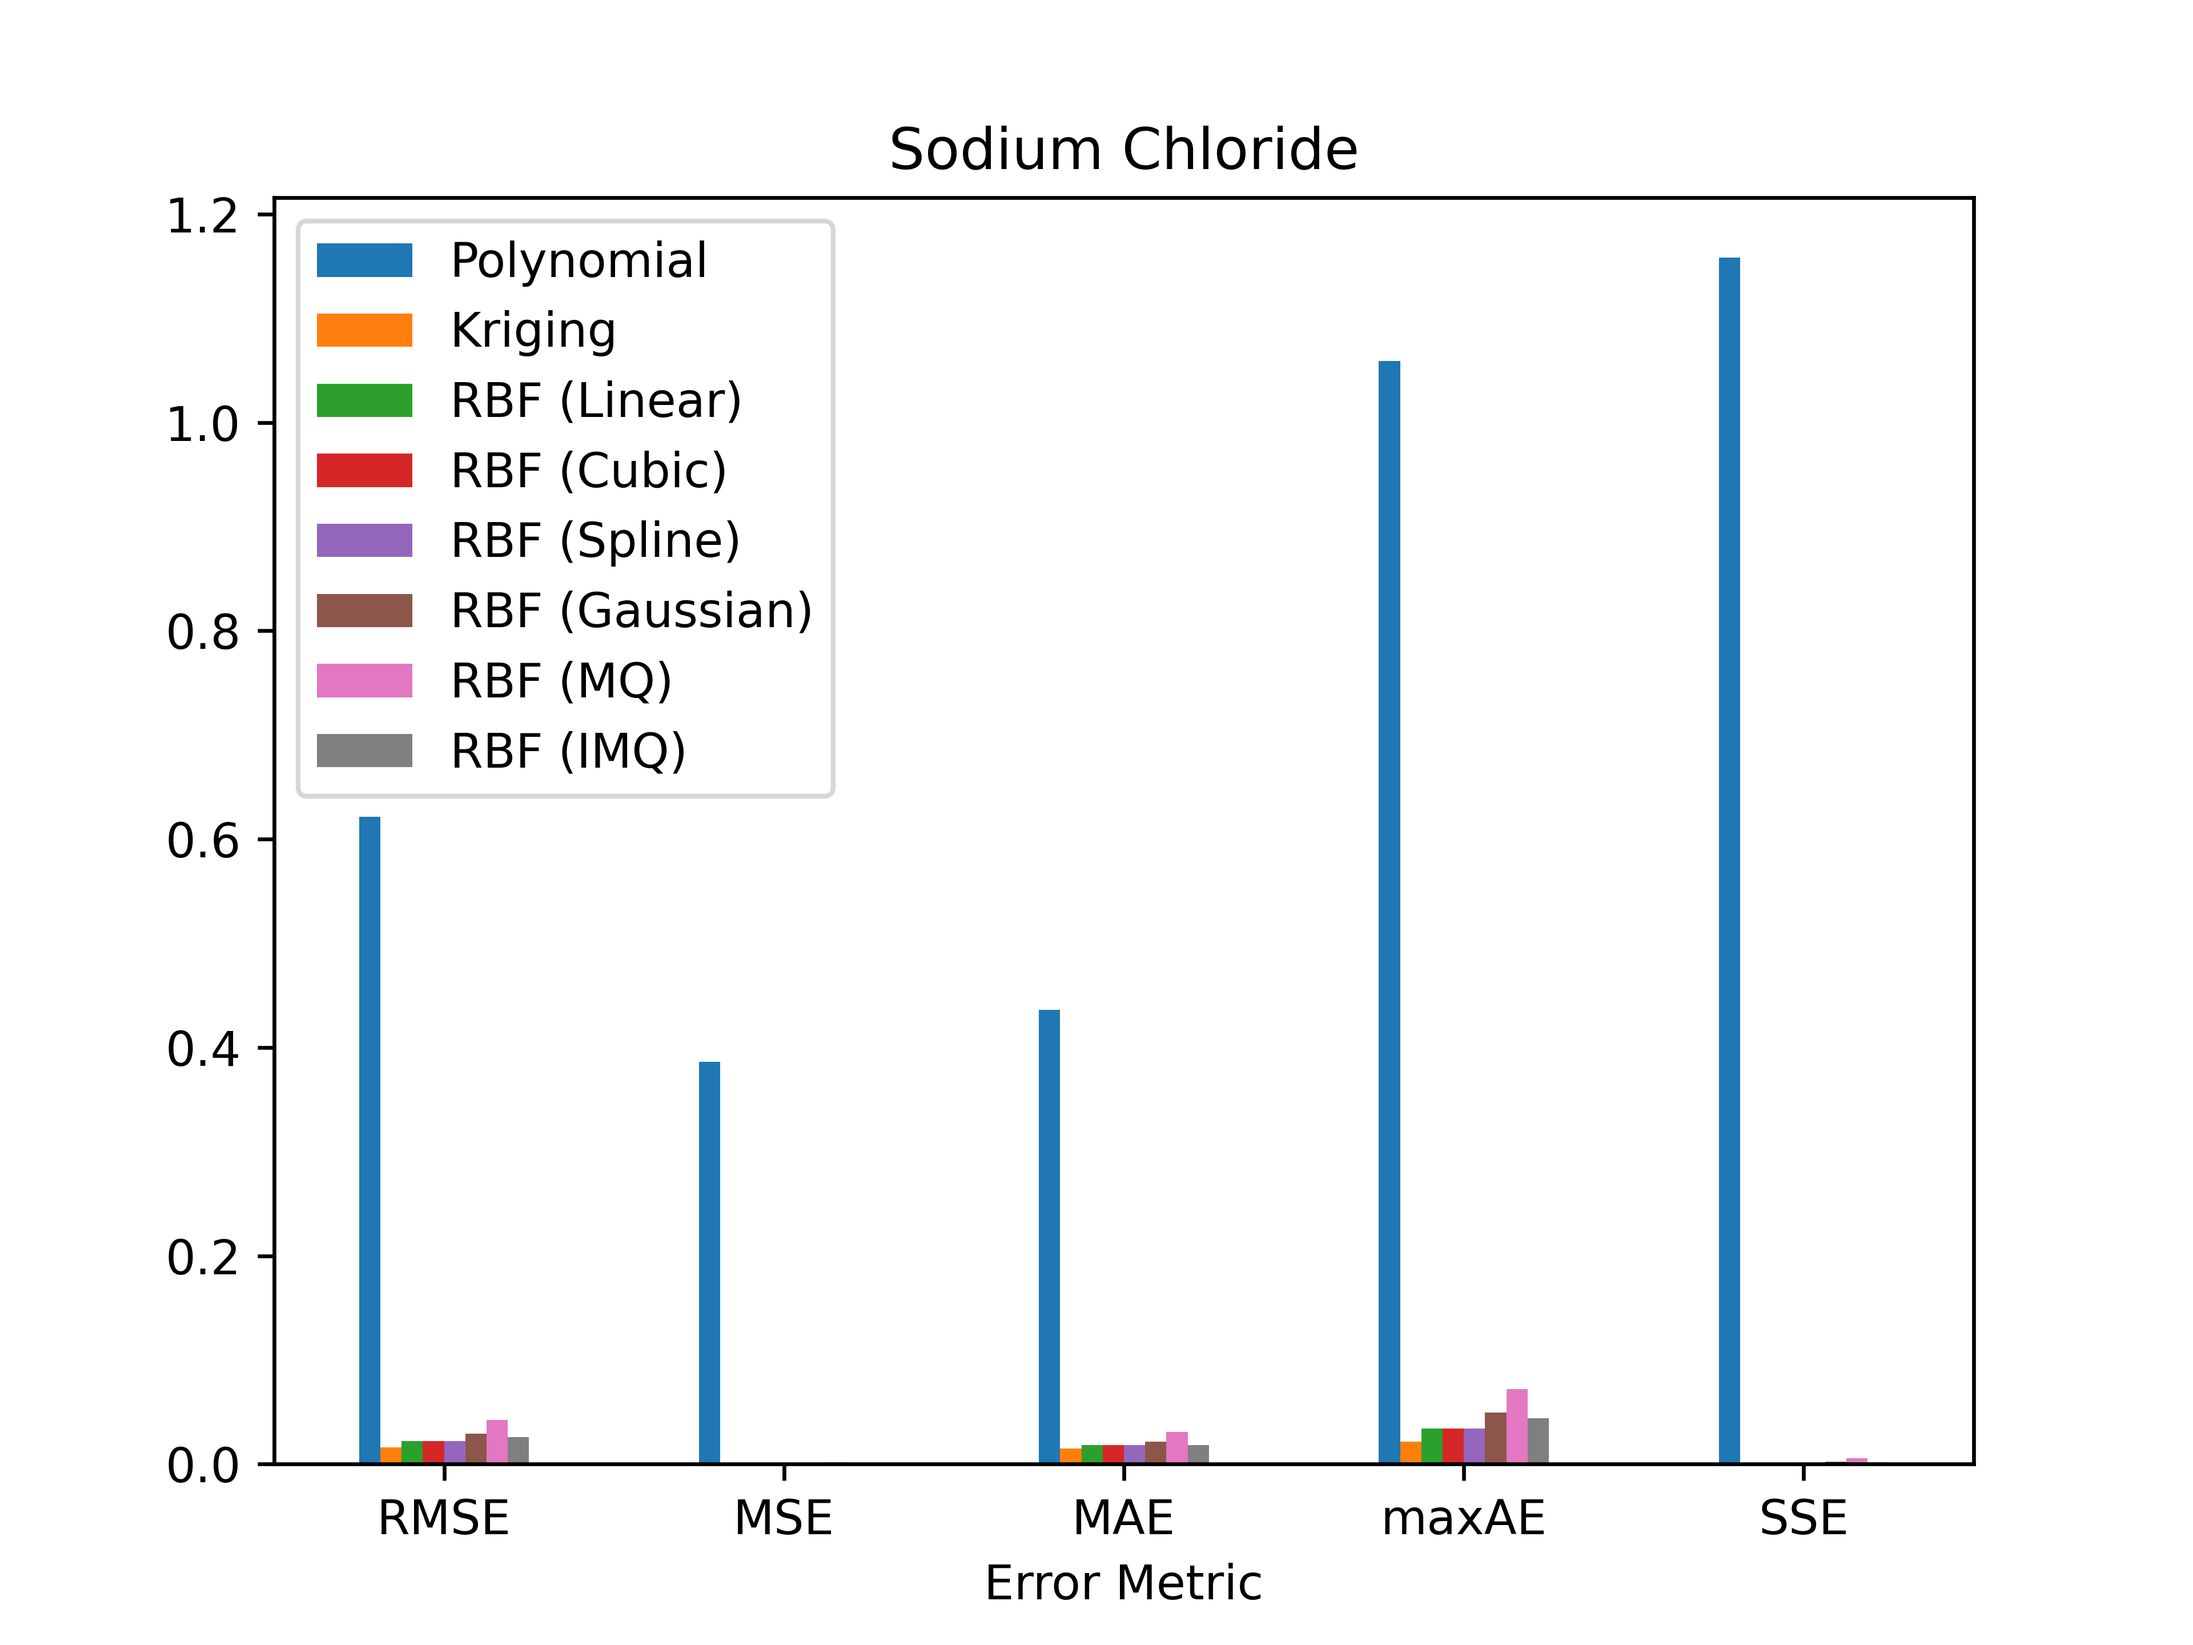
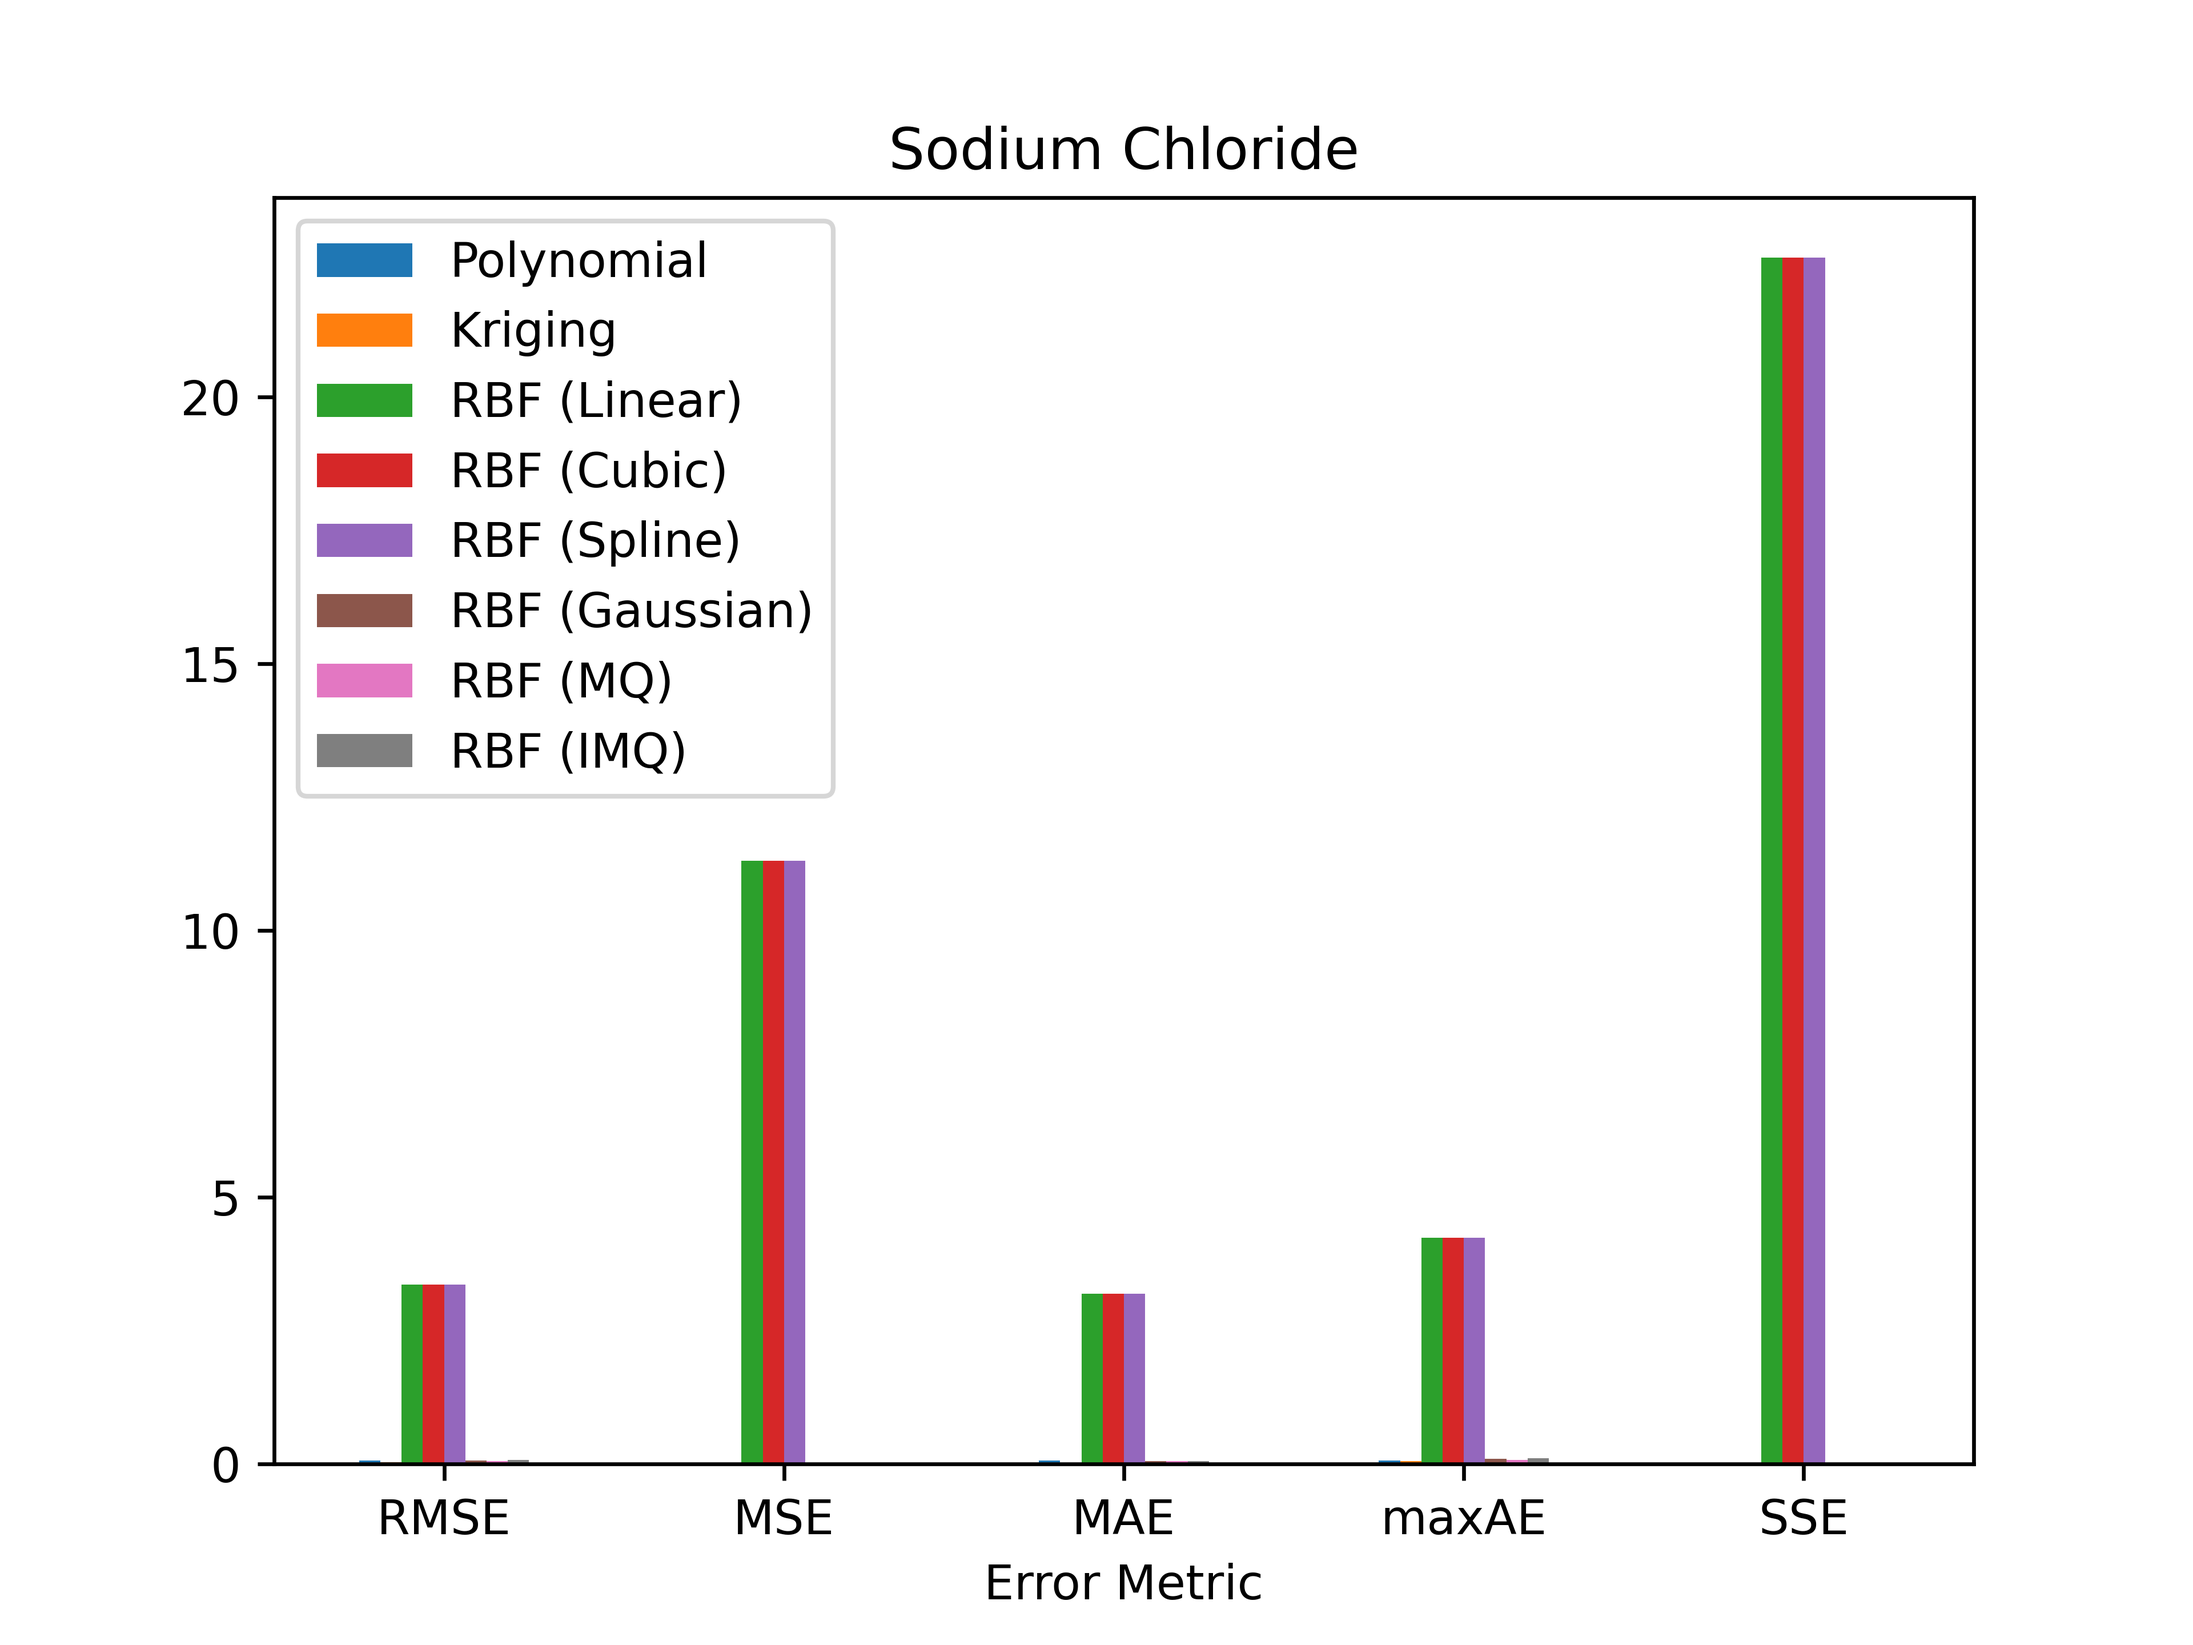
updated stage surrogate models

diff --git a/src/prommis/nanofiltration/surrogate_model_analysis/train_surrogate_model.py b/src/prommis/nanofiltration/surrogate_model_analysis/train_surrogate_model.py
@@ -35,17 +35,17 @@ def main():
     #     solute="La", salt="Lanthanum Chloride", length_scale="tube"
     # )
 
-    generate_mixed_salt_analysis(length_scale="tube")
+    # generate_mixed_salt_analysis(length_scale="tube")
 
-    # generate_per_salt_analysis(
-    #     solute="Na", salt="Sodium Chloride", length_scale="stage"
-    # )
-    # generate_per_salt_analysis(
-    #     solute="Ca", salt="Calcium Chloride", length_scale="stage"
-    # )
-    # generate_per_salt_analysis(
-    #     solute="La", salt="Lanthanum Chloride", length_scale="stage"
-    # )
+    generate_per_salt_analysis(
+        solute="Na", salt="Sodium Chloride", length_scale="stage"
+    )
+    generate_per_salt_analysis(
+        solute="Ca", salt="Calcium Chloride", length_scale="stage"
+    )
+    generate_per_salt_analysis(
+        solute="La", salt="Lanthanum Chloride", length_scale="stage"
+    )
 
 
 def generate_per_salt_analysis(solute, salt, length_scale):
@@ -54,6 +54,7 @@ def generate_per_salt_analysis(solute, salt, length_scale):
     polymonial_surrogate, polynomial_testing_error_metrics = (
         train_polynomial_surrogate_model(
             datafile=datafile,
+            length_scale=length_scale,
             visualize=False,
         )
     )
@@ -64,6 +65,7 @@ def generate_per_salt_analysis(solute, salt, length_scale):
 
     kriging_surrogate, kriging_testing_error_metrics = train_kriging_surrogate_model(
         datafile=datafile,
+        length_scale=length_scale,
         visualize=False,
     )
     kriging_surrogate.save_to_file(
@@ -75,6 +77,7 @@ def generate_per_salt_analysis(solute, salt, length_scale):
     for basis_func in basis_functions:
         rbf_surrogate, rbf_testing_error_metrics = train_rbf_surrogate_model(
             datafile=datafile,
+            length_scale=length_scale,
             basis_func=basis_func,
             visualize=False,
         )
@@ -120,6 +123,7 @@ def generate_mixed_salt_analysis(length_scale):
     polymonial_surrogate, polynomial_testing_error_metrics = (
         train_polynomial_surrogate_model(
             datafile=datafile,
+            length_scale=length_scale,
             visualize=False,
         )
     )
@@ -130,6 +134,7 @@ def generate_mixed_salt_analysis(length_scale):
 
     kriging_surrogate, kriging_testing_error_metrics = train_kriging_surrogate_model(
         datafile=datafile,
+        length_scale=length_scale,
         visualize=False,
     )
     kriging_surrogate.save_to_file(
@@ -141,6 +146,7 @@ def generate_mixed_salt_analysis(length_scale):
     for basis_func in basis_functions:
         rbf_surrogate, rbf_testing_error_metrics = train_rbf_surrogate_model(
             datafile=datafile,
+            length_scale=length_scale,
             basis_func=basis_func,
             visualize=False,
         )
@@ -179,15 +185,33 @@ def generate_mixed_salt_analysis(length_scale):
     plt.show()
 
 
-def train_polynomial_surrogate_model(datafile, max_order=4, visualize=False):
+def train_polynomial_surrogate_model(datafile, length_scale, max_order=4, visualize=False):
     # load data from full expressions
     data = read_csv(datafile)
 
+    print(str(datafile))
+
     # define input and output labels
-    input_labels = ["feed_conc", "pressure", "feed_flow"]
-    output_labels = ["ion_flux"]
-    xmin = [25, 5, 10]
-    xmax = [200, 15, 17]
+    if length_scale == "tube":
+        input_labels = ["feed_conc", "pressure", "feed_flow"]
+        output_labels = ["ion_flux"]
+        xmin = [25, 5, 10]
+        xmax = [200, 15, 17]
+    elif length_scale == "stage":
+            input_labels = ["feed_conc", "pressure"]
+            output_labels = ["ion_flux"]
+
+            # datafile = training_data/stage/single_salt/XX_chloride
+            cation = str(datafile)[32:34]
+            if cation == "Na":
+                xmin = [150, 5]
+                xmax = [200, 9]
+            elif cation == "Ca":
+                xmin = [150, 8]
+                xmax = [200, 12]
+            elif cation == "La":
+                xmin = [50, 12]
+                xmax = [100, 16]
     input_bounds = {
         input_labels[i]: (xmin[i], xmax[i]) for i in range(len(input_labels))
     }
@@ -242,15 +266,31 @@ def train_polynomial_surrogate_model(datafile, max_order=4, visualize=False):
     return (surrogate, testing_metrics)
 
 
-def train_kriging_surrogate_model(datafile, visualize=False):
+def train_kriging_surrogate_model(datafile, length_scale, visualize=False):
     # load data from full expressions
     data = read_csv(datafile)
 
     # define input and output labels
-    input_labels = ["feed_conc", "pressure", "feed_flow"]
-    output_labels = ["ion_flux"]
-    xmin = [25, 5, 10]
-    xmax = [200, 15, 17]
+    if length_scale == "tube":
+        input_labels = ["feed_conc", "pressure", "feed_flow"]
+        output_labels = ["ion_flux"]
+        xmin = [25, 5, 10]
+        xmax = [200, 15, 17]
+    elif length_scale == "stage":
+            input_labels = ["feed_conc", "pressure"]
+            output_labels = ["ion_flux"]
+
+            # datafile = training_data/stage/single_salt/XX_chloride
+            cation = str(datafile)[32:34]
+            if cation == "Na":
+                xmin = [150, 5]
+                xmax = [200, 9]
+            elif cation == "Ca":
+                xmin = [150, 8]
+                xmax = [200, 12]
+            elif cation == "La":
+                xmin = [50, 12]
+                xmax = [100, 16]
     input_bounds = {
         input_labels[i]: (xmin[i], xmax[i]) for i in range(len(input_labels))
     }
@@ -302,15 +342,31 @@ def train_kriging_surrogate_model(datafile, visualize=False):
     return (surrogate, testing_metrics)
 
 
-def train_rbf_surrogate_model(datafile, basis_func="cubic", visualize=False):
+def train_rbf_surrogate_model(datafile, length_scale, basis_func="cubic", visualize=False):
     # load data from full expressions
     data = read_csv(datafile)
 
     # define input and output labels
-    input_labels = ["feed_conc", "pressure", "feed_flow"]
-    output_labels = ["ion_flux"]
-    xmin = [25, 5, 10]
-    xmax = [200, 15, 17]
+    if length_scale == "tube":
+        input_labels = ["feed_conc", "pressure", "feed_flow"]
+        output_labels = ["ion_flux"]
+        xmin = [25, 5, 10]
+        xmax = [200, 15, 17]
+    elif length_scale == "stage":
+            input_labels = ["feed_conc", "pressure"]
+            output_labels = ["ion_flux"]
+
+            # datafile = training_data/stage/single_salt/XX_chloride
+            cation = str(datafile)[32:34]
+            if cation == "Na":
+                xmin = [150, 5]
+                xmax = [200, 9]
+            elif cation == "Ca":
+                xmin = [150, 8]
+                xmax = [200, 12]
+            elif cation == "La":
+                xmin = [50, 12]
+                xmax = [100, 16]
     input_bounds = {
         input_labels[i]: (xmin[i], xmax[i]) for i in range(len(input_labels))
     }
